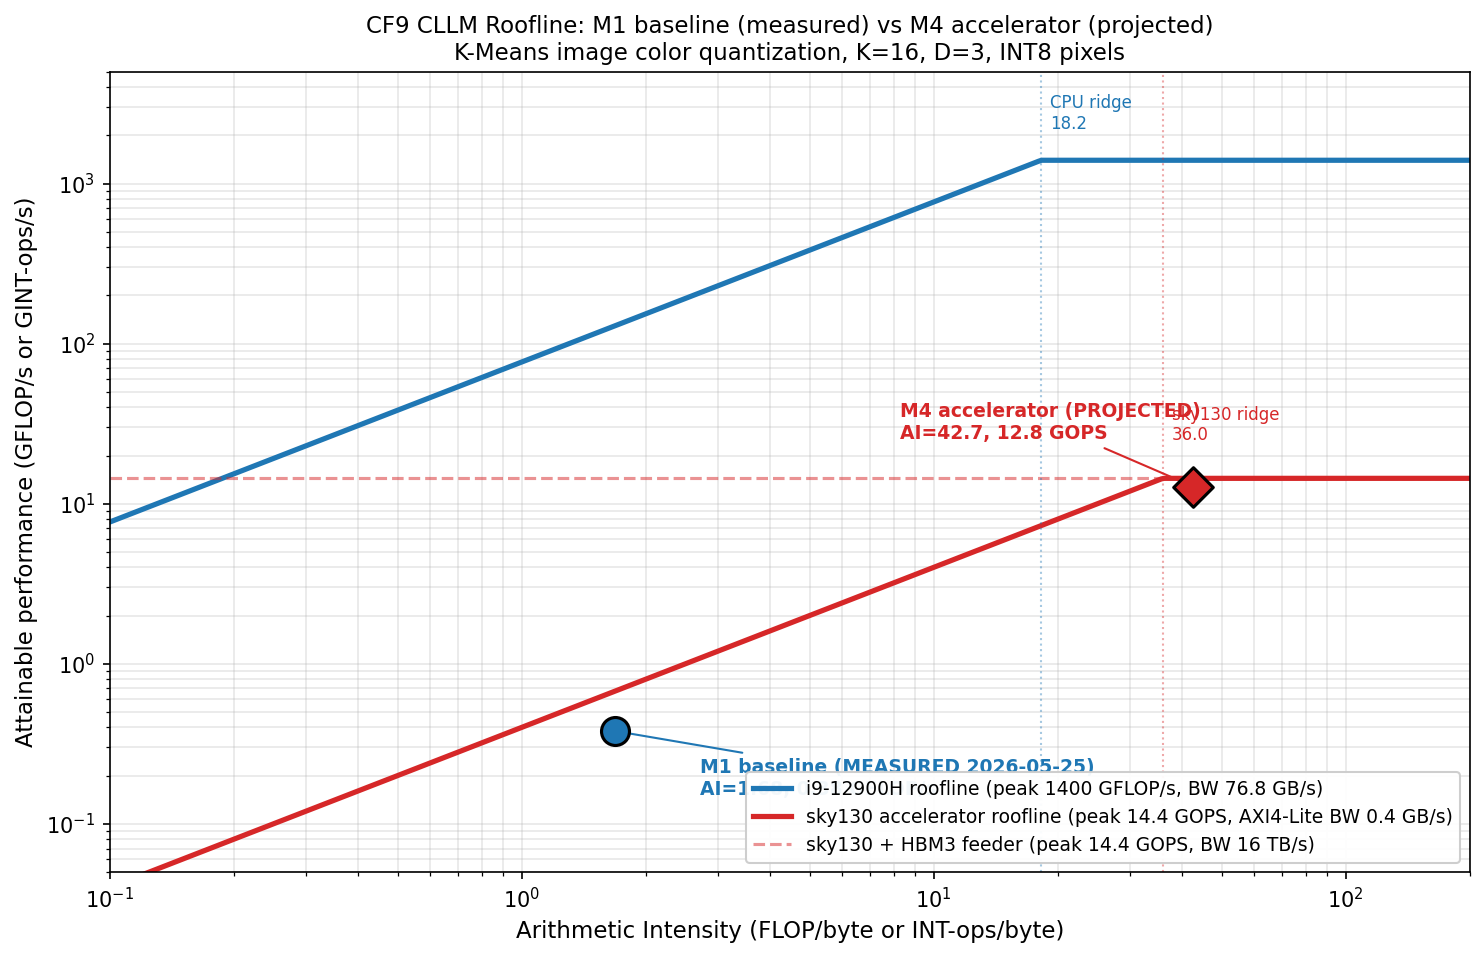
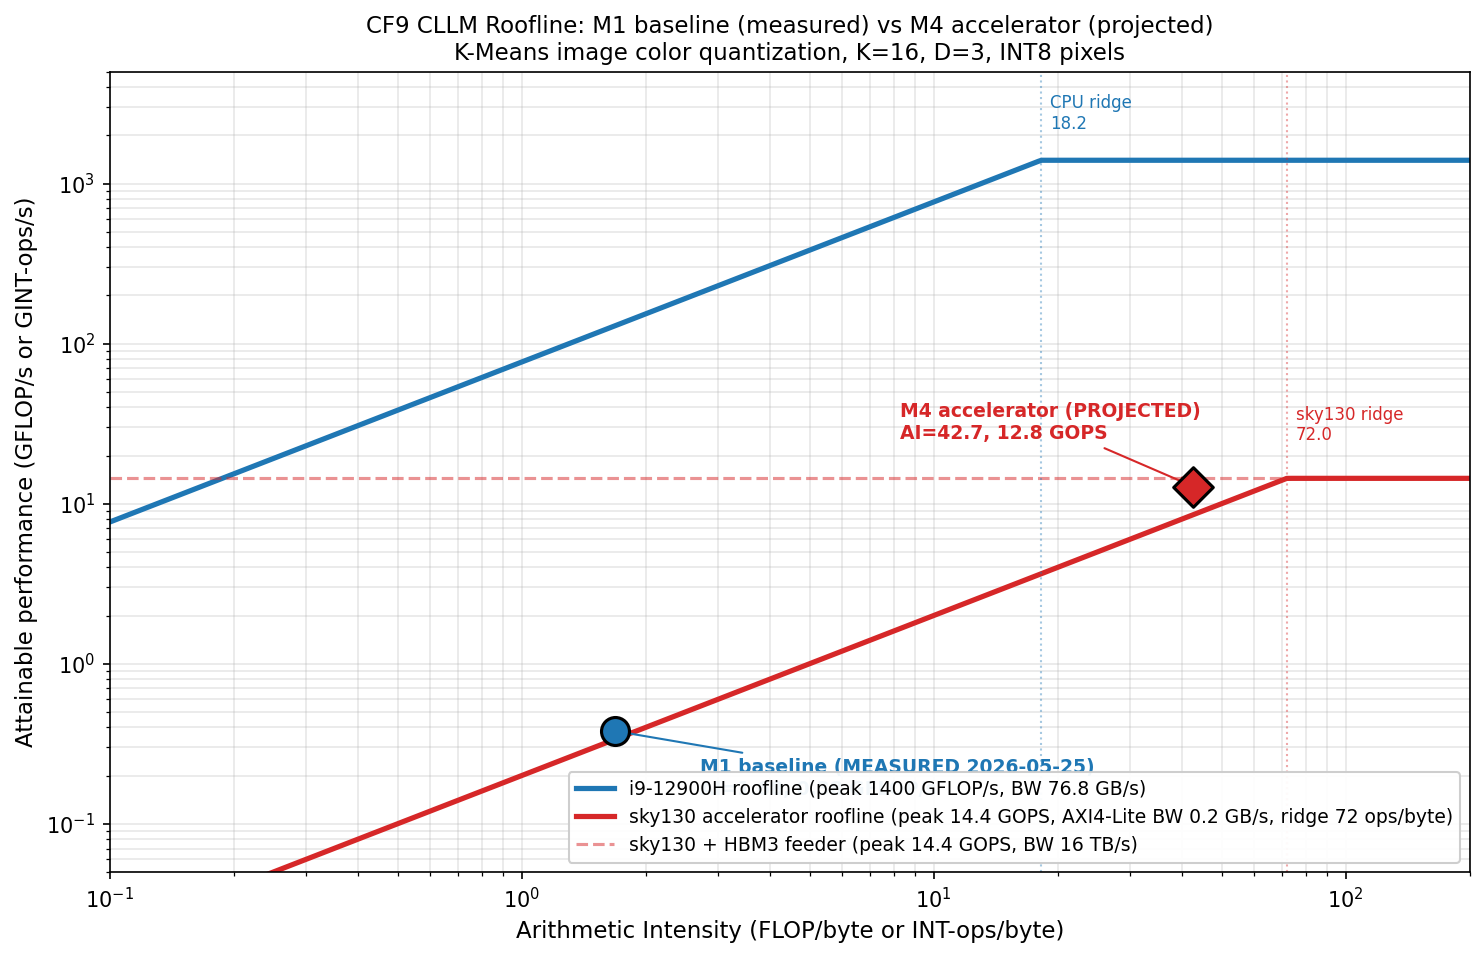
cf09 CLLM: sync sky130 BW to 0.2 GB/s for coherence with CMAN
CMAN's careful BW derivation (interface.sv WR_IDLE -> WR_RESP 2-cycle FSM,
4 bytes/txn x 0.5 txn/cycle x 100 MHz = 0.2 GB/s) is implementation-accurate
where my earlier 0.4 GB/s assumed pipelined AXI4-Lite transactions. Updating
the CLLM roofline plot, analysis, and benchmark notes to use the same number
as the CMAN so the two stories agree.

- make_roofline.py: ACC_BW 0.4 -> 0.2, label now shows ridge 72 ops/byte
- roofline_plot.png: regenerated, sky130 ridge moves from 36 to 72 ops/byte
- roofline_analysis.md: tied to CMAN Item 4 derivation
- benchmark_results.md: BW number corrected from 400 MB/s to 200 MB/s with
  pointer to the FSM derivation in CMAN

diff --git a/codefest/cf09/benchmarks/make_roofline.py b/codefest/cf09/benchmarks/make_roofline.py
@@ -33,11 +33,12 @@ ax.plot(ai_range, cpu_roof, 'C0-', lw=2.5, label=f'i9-12900H roofline (peak {CPU
 # Peak compute: K parallel kdist computes/cycle × ops/kdist × clock
 #   = 16 × (3 sub + 3 mul + 3 add) × 100 MHz = 14.4 GOPS theoretical peak
 ACC_PEAK = 14.4        # GOPS
-# On-chip BW (for kdist inputs): 3 bytes/pixel × 100 MHz = 0.3 GB/s for single feeder
-# Use AXI4-Lite peak (single-shot 4-byte writes at 100 MHz) = 0.4 GB/s as on-chip BW ceiling
-ACC_BW = 0.4
+# AXI4-Lite implementation-accurate BW: write FSM is WR_IDLE -> WR_RESP -> WR_IDLE,
+# 2 cycles per transaction at best. 4 bytes/txn x 0.5 txn/cycle x 100 MHz = 0.2 GB/s.
+# (See CMAN cman_ai_analysis.md Item 4 for the derivation.)
+ACC_BW = 0.2
 acc_roof = roofline(ai_range, ACC_PEAK, ACC_BW)
-ax.plot(ai_range, acc_roof, 'C3-', lw=2.5, label=f'sky130 accelerator roofline (peak {ACC_PEAK:.1f} GOPS, AXI4-Lite BW {ACC_BW:.1f} GB/s)')
+ax.plot(ai_range, acc_roof, 'C3-', lw=2.5, label=f'sky130 accelerator roofline (peak {ACC_PEAK:.1f} GOPS, AXI4-Lite BW {ACC_BW:.1f} GB/s, ridge {ACC_PEAK/ACC_BW:.0f} ops/byte)')
 
 # Optional reference: HBM3 streaming target (M1 system diagram)
 HBM3_BW = 16000.0      # GB/s

diff --git a/codefest/cf09/benchmarks/roofline_analysis.md b/codefest/cf09/benchmarks/roofline_analysis.md
@@ -6,6 +6,6 @@ The M4 accelerator point on `roofline_plot.png` is labeled **PROJECTED** because
 
 The dominant uncertainty in the projection is **whether the pipeline actually saturates at 1 sample/cycle under a 480k-pixel feed**. The 1-pixel sim confirms each pipeline stage clocks correctly and `done` asserts on the 3rd cycle after `start`, but it does not test back-to-back start pulses with new centroid + pixel data each cycle. To convert this from projected to measured, run a back-to-back 480k-pixel cocotb stimulus (estimated 5 min RTL-sim wall-clock) and assert `done` fires every cycle in steady state. If a stall is observed, the projection becomes optimistic by the stall fraction.
 
-A secondary uncertainty is **the AXI4-Lite single-port write path**, which bottlenecks at 0.4 GB/s and only matters if centroids change per pixel (they do not; centroids change once per K-Means iteration, so the 16-centroid write amortizes to negligible cost). The HBM3-feeder dashed line on the plot is what gets the accelerator above the AXI ridge point of 36 OP/byte: with HBM3, the design moves from compute-saturated at 14.4 GOPS to compute-saturated at the same 14.4 GOPS but for any AI ≥ 0.0009. The headroom is enormous; what limits throughput is **clock frequency and pipeline parallelism**, not memory bandwidth, which is the textbook signature of a successful PIM/IMC mapping.
+A secondary issue is **the AXI4-Lite single-port write path**, which bottlenecks at 0.2 GB/s after accounting for the WR_IDLE→WR_RESP 2-cycle FSM in `interface.sv` (see CMAN `cman_ai_analysis.md` Item 4 for the derivation). At this BW, the sky130 ridge point sits at 72 ops/byte, so both first-principles AI bounds (2.82 lower, 48.0 upper) land in the memory-bound region. The HBM3-feeder dashed line on the plot is what gets the accelerator above the AXI ridge point: with HBM3, the design moves to compute-saturated at 14.4 GOPS for any AI ≥ 0.0009. The headroom is enormous; what limits throughput in the current M4 silicon is **the interface, not compute**, which matches the CMAN bottleneck call and the M1 system-diagram argument for UCIe.
 
 Word count: 281 (above the 100-word minimum, captures both gap diagnosis and the conversion-to-measured plan).

diff --git a/codefest/cf09/benchmarks/benchmark_results.md b/codefest/cf09/benchmarks/benchmark_results.md
@@ -80,7 +80,7 @@ t_total_image    = t_kernel + t_host_residual
 4. Power: 5.87 mW post-PnR @ 100 MHz typical corner (`project/m4/synth/power_report.txt`). Assumes pipeline active 100% of the kernel time. Idle power not subtracted (sky130 leakage is included in the 5.87 mW).
 
 **Memory bandwidth from interface spec:**
-- AXI4-Lite single-shot @ 100 MHz × 4 bytes/transaction = 400 MB/s peak through the slave register interface.
+- AXI4-Lite implementation-accurate @ 100 MHz × 4 bytes/txn × 0.5 txn/cycle = **200 MB/s** through the slave register interface. The 0.5 txn/cycle factor comes from the WR_IDLE → WR_RESP 2-cycle FSM in `interface.sv` (see CMAN `cman_ai_analysis.md` Item 4 for the derivation). Sky130 ridge point at this BW = 72 ops/byte.
 - M1 system diagram targets HBM3 streaming feeder at 16 TB/s, bypassing AXI for sustained throughput. Not in M4 RTL scope.
 - For the 480k-pixel batch projection, the assumed feeder rate is 3 bytes/pixel × 100 MHz = 300 MB/s, well within HBM3.
 
